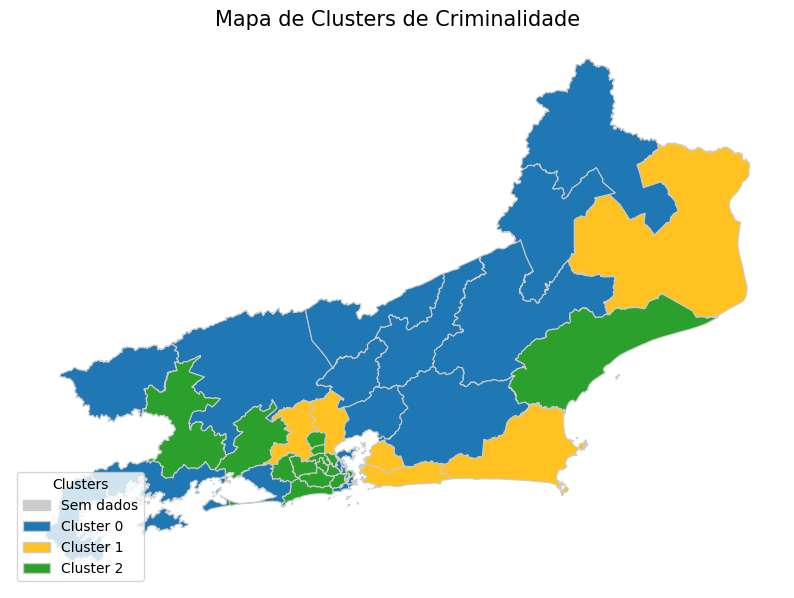
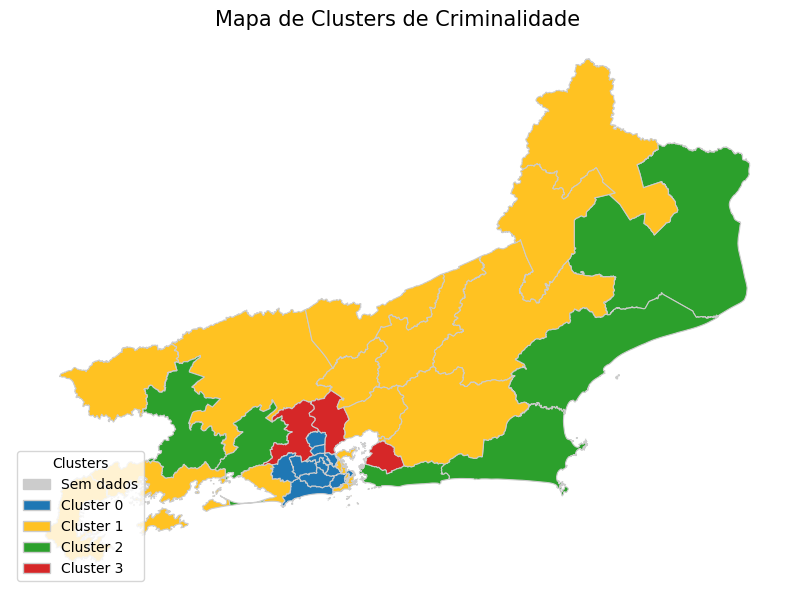
Correção do mapa de clusters

Changed region(s): [[0.0302, 0.0903, 0.9673, 0.9632]]

diff --git a/crime_monitor/frontend/static/js/agrupamentos.js b/crime_monitor/frontend/static/js/agrupamentos.js
@@ -125,7 +125,7 @@ document.addEventListener("DOMContentLoaded", async () => {
         const { inicio, fim } = dadosClustersCache;
 
         try {
-            const resMapa = await fetch(`/api/mapa_clusters?group_by=${group_by}&inicio=${inicio}&fim=${fim}&k=${document.getElementById("num-clusters").value}`);
+            const resMapa = await fetch(`/api/mapa_clusters?group_by=${group_by}&inicio=${inicio}&fim=${fim}&k=${document.getElementById("num-clusters").value}&mcirc=${inputMunicipio.value}`);
             if (!resMapa.ok) throw new Error(`Erro HTTP ${resMapa.status}`);
             const dataMapa = await resMapa.json();
 

diff --git a/crime_monitor/frontend/pages/index.html b/crime_monitor/frontend/pages/index.html
@@ -109,7 +109,7 @@
                         <h3>Mapa de Letalidade violenta</h3>
                         <label for="map-group">Mapa por:</label>
                         <div class="map-controls">
-                            <select class="map-group">
+                            <select id="map-group">
                                 <option value="mcirc">Município</option>
                                 <option value="cisp">CISP</option>
                                 <option value="aisp">AISP</option>

diff --git a/crime_monitor/backend/app.py b/crime_monitor/backend/app.py
@@ -17,6 +17,7 @@ from sklearn.decomposition import PCA
 import pickle
 import psycopg2
 from dotenv import load_dotenv
+import random
 
 warnings.filterwarnings("ignore")
 
@@ -789,6 +790,7 @@ _gdf_cache = {}
 # ===========================
 # API - Mapa de Clusters
 # ===========================
+
 @app.route("/api/mapa_clusters")
 def mapa_clusters():
     df = load_data()
@@ -824,8 +826,7 @@ def mapa_clusters():
     }).reset_index()
 
     features = ["letalidade_violenta", "roubo_veiculo", "estupro", "estelionato", "trafico_drogas", "apf"]
-    X = df_grouped[features].fillna(0)
-    X_scaled = StandardScaler().fit_transform(X)
+    X_scaled = StandardScaler().fit_transform(df_grouped[features].fillna(0))
 
     kmeans = KMeans(n_clusters=k, random_state=42, n_init=10)
     df_grouped["cluster"] = kmeans.fit_predict(X_scaled)
@@ -834,33 +835,55 @@ def mapa_clusters():
     gdf[shapefile_col] = gdf[shapefile_col].astype(str)
     df_grouped[group_by] = df_grouped[group_by].astype(str)
     gdf = gdf.merge(df_grouped[[group_by, "cluster"]], left_on=shapefile_col, right_on=group_by, how="left")
-
-    # Preenche clusters ausentes para não deixar regiões em branco
     gdf["cluster"] = gdf["cluster"].fillna(-1).astype(int)
 
     # === Paleta fixa por cluster ===
     fixed_colors = {
-        0: "#1f77b4",  # azul
-        1: "#ffc222",  # laranja
-        2: "#2ca02c",  # verde
-        3: "#d62728",  # vermelho
-        4: "#9467bd",  # roxo
-        -1: "#cccccc"  # cinza para regiões sem dados
+        0: "#1f77b4", 1: "#ffc222", 2: "#2ca02c", 3: "#d62728", 4: "#9467bd", -1: "#cccccc"
     }
+
+    # === Gerar cores aleatórias para clusters fora do fixed_colors ===
+    existing_colors = set(fixed_colors.values())
+    # clusters existentes
+    clusters_in_data = gdf["cluster"].unique()
+
+    # cores fixas padrão
+    default_fixed = {0: "#1f77b4", 1: "#ffc222", 2: "#2ca02c", 3: "#d62728", -1: "#cccccc"}
+
+    # inicializa fixed_colors com clusters já existentes que têm cor fixa
+    fixed_colors = {}
+    existing_colors = set(default_fixed.values())
+
+    for cluster in clusters_in_data:
+        if cluster in default_fixed:
+            fixed_colors[cluster] = default_fixed[cluster]
+        elif cluster == -1:
+            fixed_colors[cluster] = "#cccccc"
+        else:
+            # gera cor aleatória que não repita cores existentes
+            while True:
+                random_color = "#{:06x}".format(random.randint(0, 0xFFFFFF))
+                if random_color not in existing_colors:
+                    fixed_colors[cluster] = random_color
+                    existing_colors.add(random_color)
+                    break
+
+    # agora todos os clusters terão uma cor válida
     gdf["color"] = gdf["cluster"].map(fixed_colors)
 
     # === Plot ===
     fig, ax = plt.subplots(1, 1, figsize=(10, 10))
     gdf.plot(color=gdf["color"], linewidth=0.8, edgecolor='0.8', ax=ax)
-
     ax.set_axis_off()
     plt.title("Mapa de Clusters de Criminalidade", fontsize=15)
 
-    legend_elements = [Patch(facecolor=fixed_colors[i], edgecolor='0.8', label=f"Cluster {i}" if i >=0 else "Sem dados") 
-                       for i in range(-1, k)]
+    legend_elements = [
+        Patch(facecolor=fixed_colors[i], edgecolor='0.8', label=f"Cluster {i}" if i >= 0 else "Sem dados")
+        for i in sorted(fixed_colors.keys())
+    ]
     ax.legend(handles=legend_elements, title="Clusters", loc="lower left")
 
-    params_str = f"clusters_{group_by}_{inicio}_{fim}".replace(" ", "_").replace(":", "_")
+    params_str = f"clusters_{group_by}_{inicio}_{fim}_{k}".replace(" ", "_").replace(":", "_")
     image_name = f"{params_str}.png"
     image_path = os.path.join(MAP_FOLDER, image_name)
 
